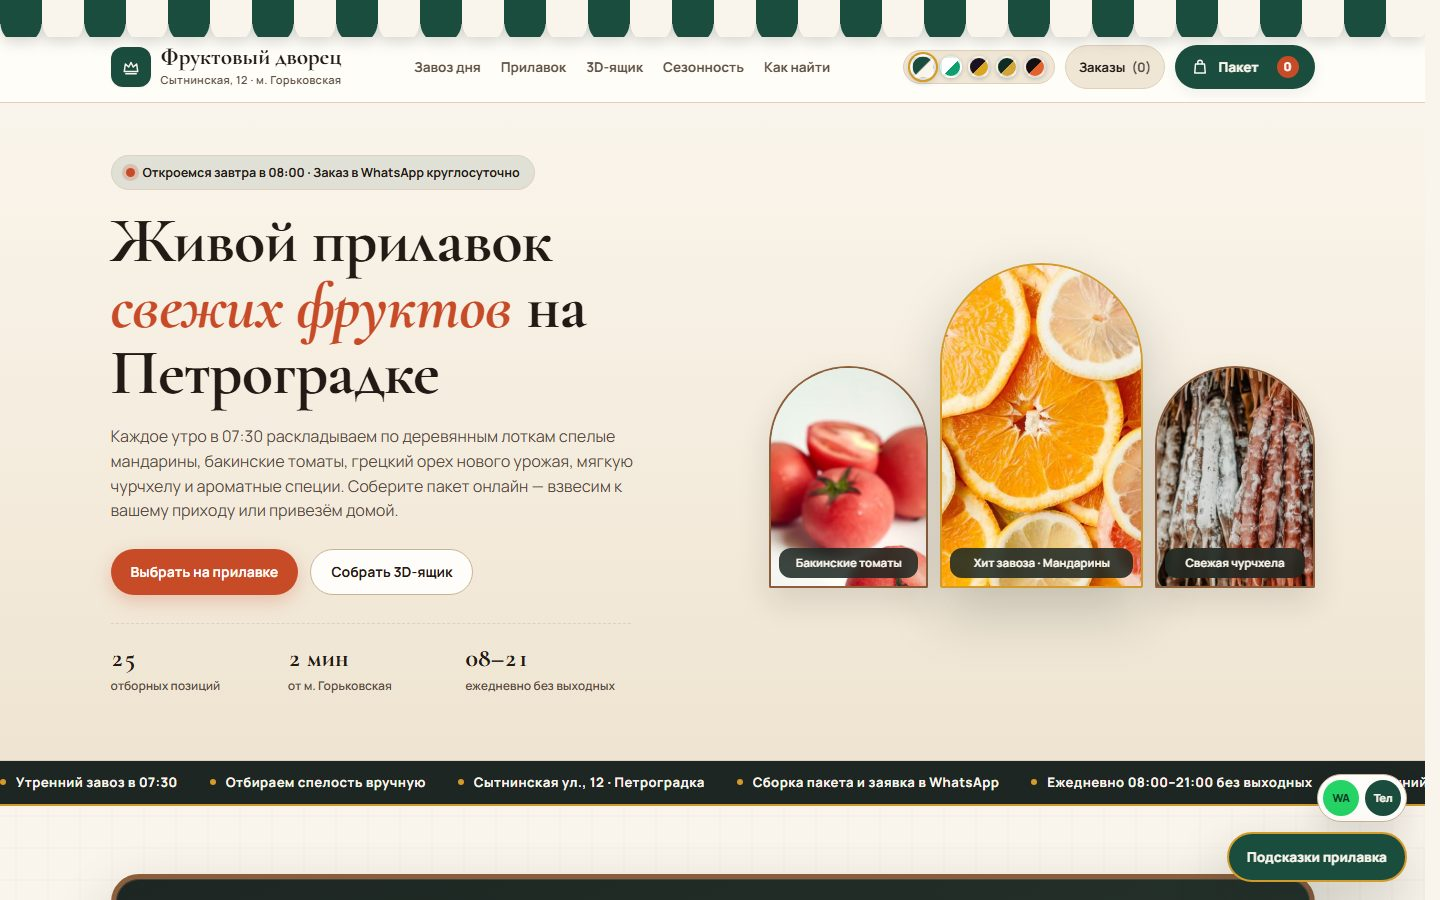
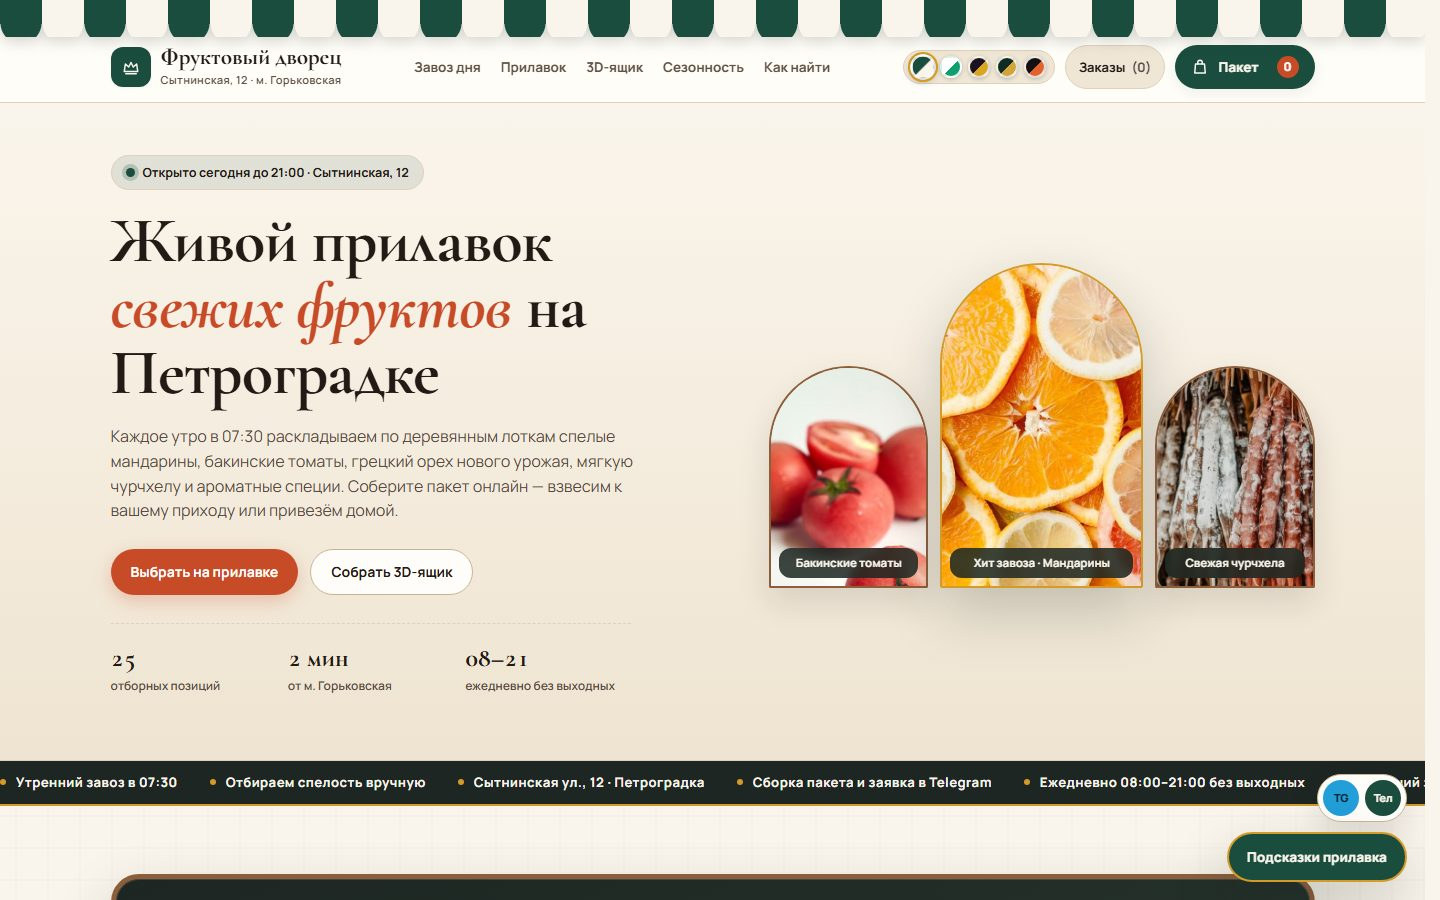
fruktovy: карточка и бот под заявку в Telegram и QR витрины
Витрина больше не принимает заявки в WhatsApp — единственный канал это
Telegram магазина, и на ней появился QR на адрес Pages. Снимок переснят
с живого рендера, тексты карточки и воркера переведены под новые факты;
воркер пересобран из projects.json, бандл сверен check-bundle.

diff --git a/bot/cloudflare-worker/worker.js b/bot/cloudflare-worker/worker.js
@@ -20,8 +20,8 @@ var projects_default = {
       title: "Фруктовый дворец",
       lang: "HTML, CSS, JavaScript",
       stars: 0,
-      desc: "Витрина магазина фруктов и овощей: 25 позиций в шести рядах, поиск, пакет с повтором заказа, конструктор 3D-ящика, сезонный календарь и подсказки прилавка. Цен нет — итог продавец называет в ответ на заявку в WhatsApp. Пять палитр на одной разметке, офлайн-кэш, self-hosted ассеты и ноль трекеров.\nСтек: HTML, CSS, JavaScript, Python (сборка и гейт качества)",
-      desc_en: "Fruit and vegetable shop storefront: 25 items in six aisles, search, an order basket with reorder, a 3D crate builder, a seasonal calendar and counter hints. No prices — the seller names the total in WhatsApp after the request. Five themes on one markup, offline cache, self-hosted assets and zero trackers.\nStack: HTML, CSS, JavaScript, Python (build and quality gate)",
+      desc: "Витрина магазина фруктов и овощей: 25 позиций в шести рядах, поиск, пакет с повтором заказа, конструктор 3D-ящика, сезонный календарь и подсказки прилавка. Цен нет — итог продавец называет в ответ на заявку в Telegram. Пять палитр на одной разметке, QR на адрес витрины, офлайн-кэш, self-hosted ассеты и ноль трекеров.\nСтек: HTML, CSS, JavaScript, Python (сборка и гейт качества)",
+      desc_en: "Fruit and vegetable shop storefront: 25 items in six aisles, search, an order basket with reorder, a 3D crate builder, a seasonal calendar and counter hints. No prices — the seller names the total in Telegram after the request. Five themes on one markup, a QR code to the storefront, offline cache, self-hosted assets and zero trackers.\nStack: HTML, CSS, JavaScript, Python (build and quality gate)",
       repo: "https://github.com/ssrjkk/fruktovy",
       site: "https://ssrjkk.github.io/fruktovy/",
       shot: "https://raw.githubusercontent.com/ssrjkk/ssrjkk/main/assets/shots/fruktovy.jpg"

diff --git a/index.html b/index.html
@@ -356,7 +356,7 @@ h2{font-size:clamp(30px,4.3vw,46px);line-height:1.04;letter-spacing:-.045em;font
           </a>
           <div class="card-body">
             <div class="card-top"><h3>fruktovy</h3><span class="mono">e-commerce</span></div>
-            <p>Сайт магазина фруктов и овощей: 25 позиций в шести рядах, поиск, пакет с повтором заказа, конструктор 3D-ящика, сезонный календарь и подсказки прилавка. Цен нет — итог называет продавец в ответ на заявку в WhatsApp. Пять палитр, без фреймворков и трекеров.</p>
+            <p>Сайт магазина фруктов и овощей: 25 позиций в шести рядах, поиск, пакет с повтором заказа, конструктор 3D-ящика, сезонный календарь и подсказки прилавка. Цен нет — итог называет продавец в ответ на заявку в Telegram. Пять палитр, QR на витрину для телефона, без фреймворков и трекеров.</p>
             <ul class="tags"><li>HTML</li><li>CSS</li><li>JavaScript</li><li>Python CI</li></ul>
             <a class="card-link" href="https://ssrjkk.github.io/fruktovy/" target="_blank" rel="noopener">Открыть сайт <span aria-hidden="true">↗</span></a>
             <a class="card-link" href="https://t.me/ssrjkk_bot?start=p_fruktovy" target="_blank" rel="noopener">Карточка в @ssrjkk_bot <span aria-hidden="true">↗</span></a>
